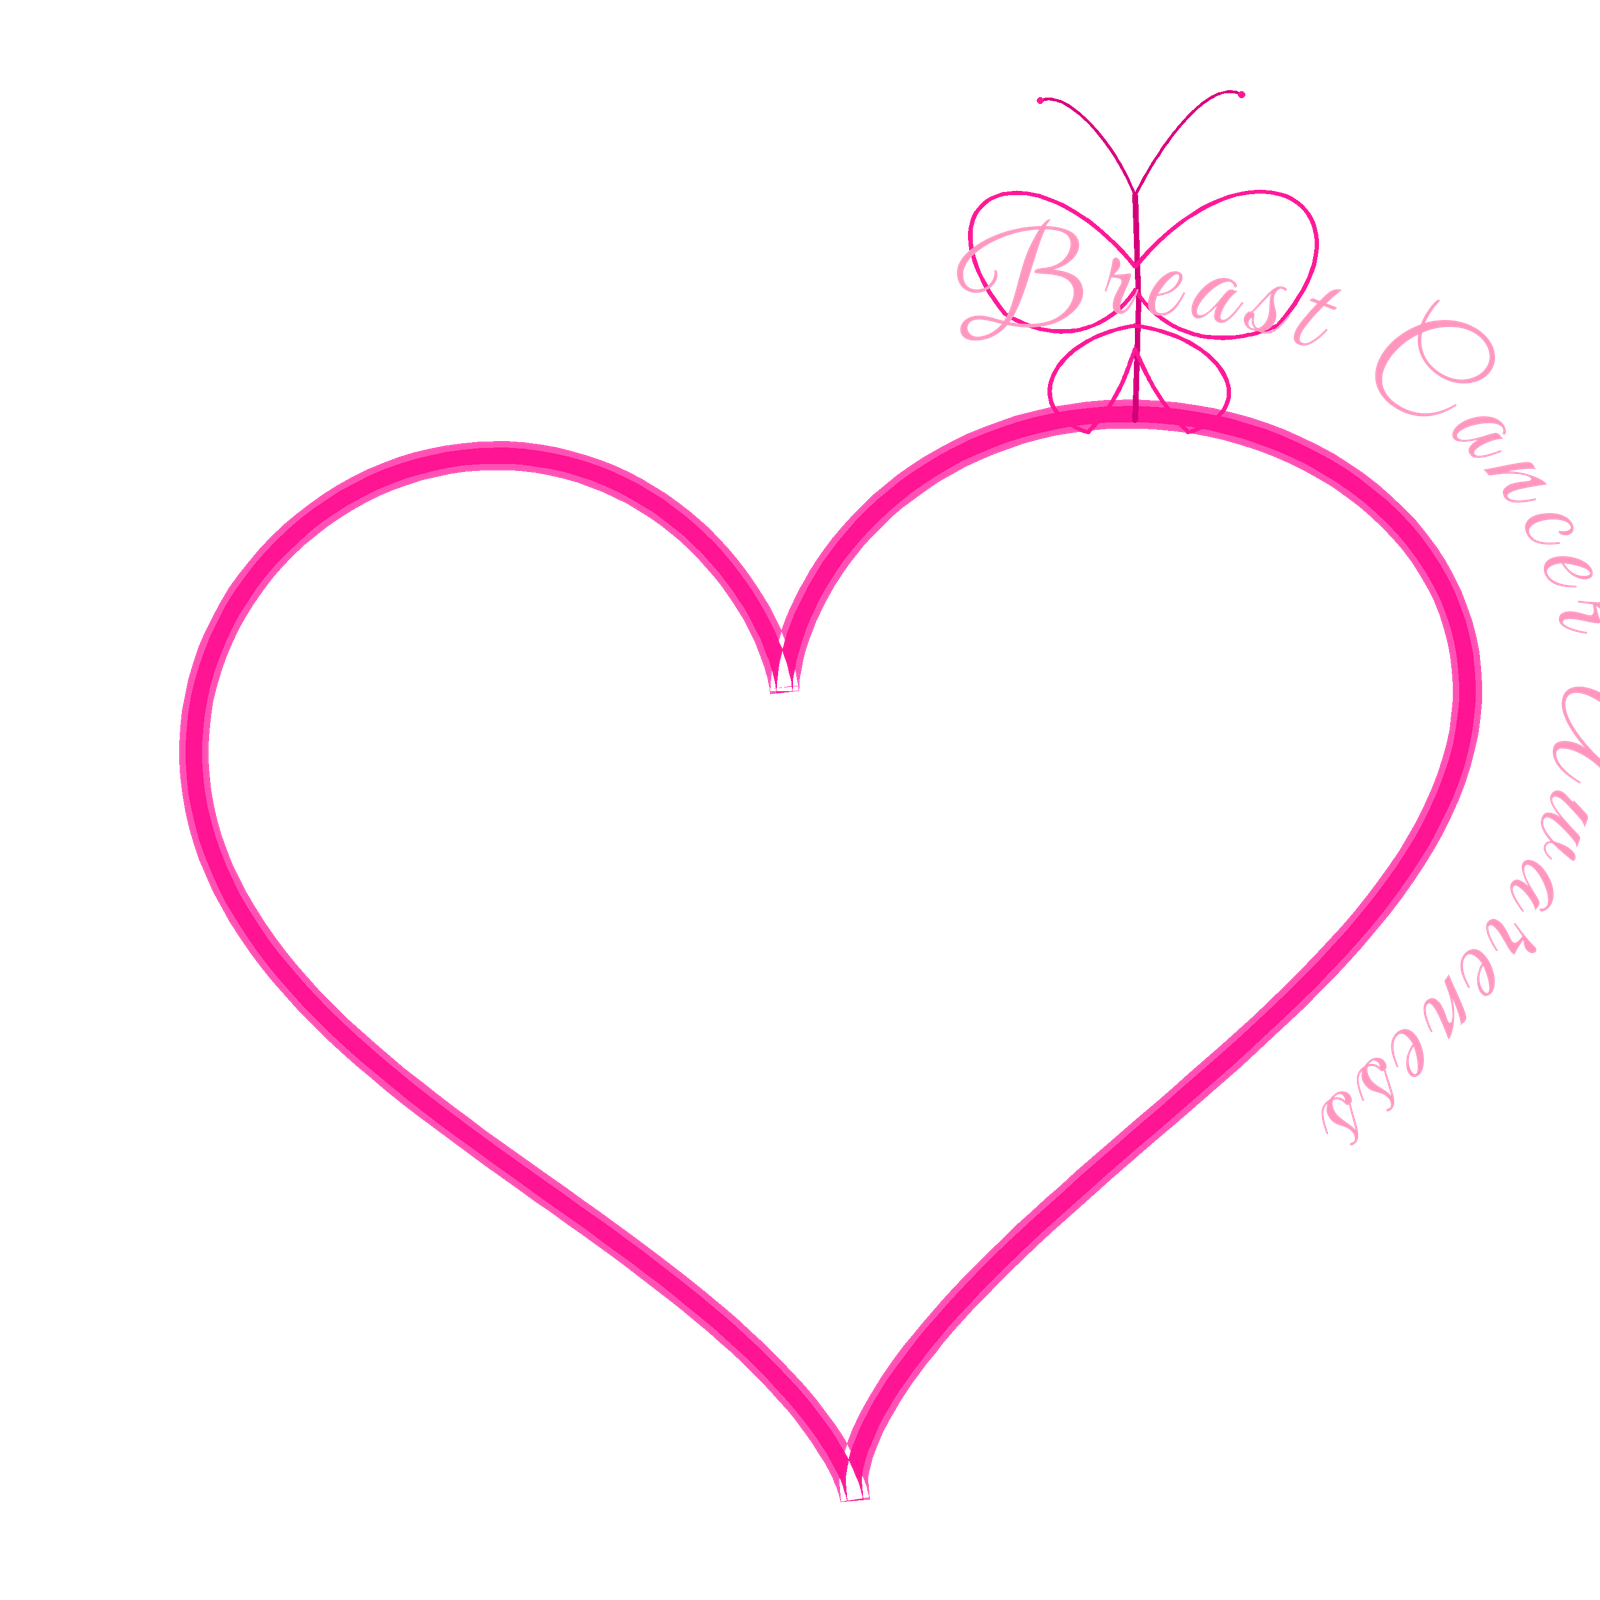
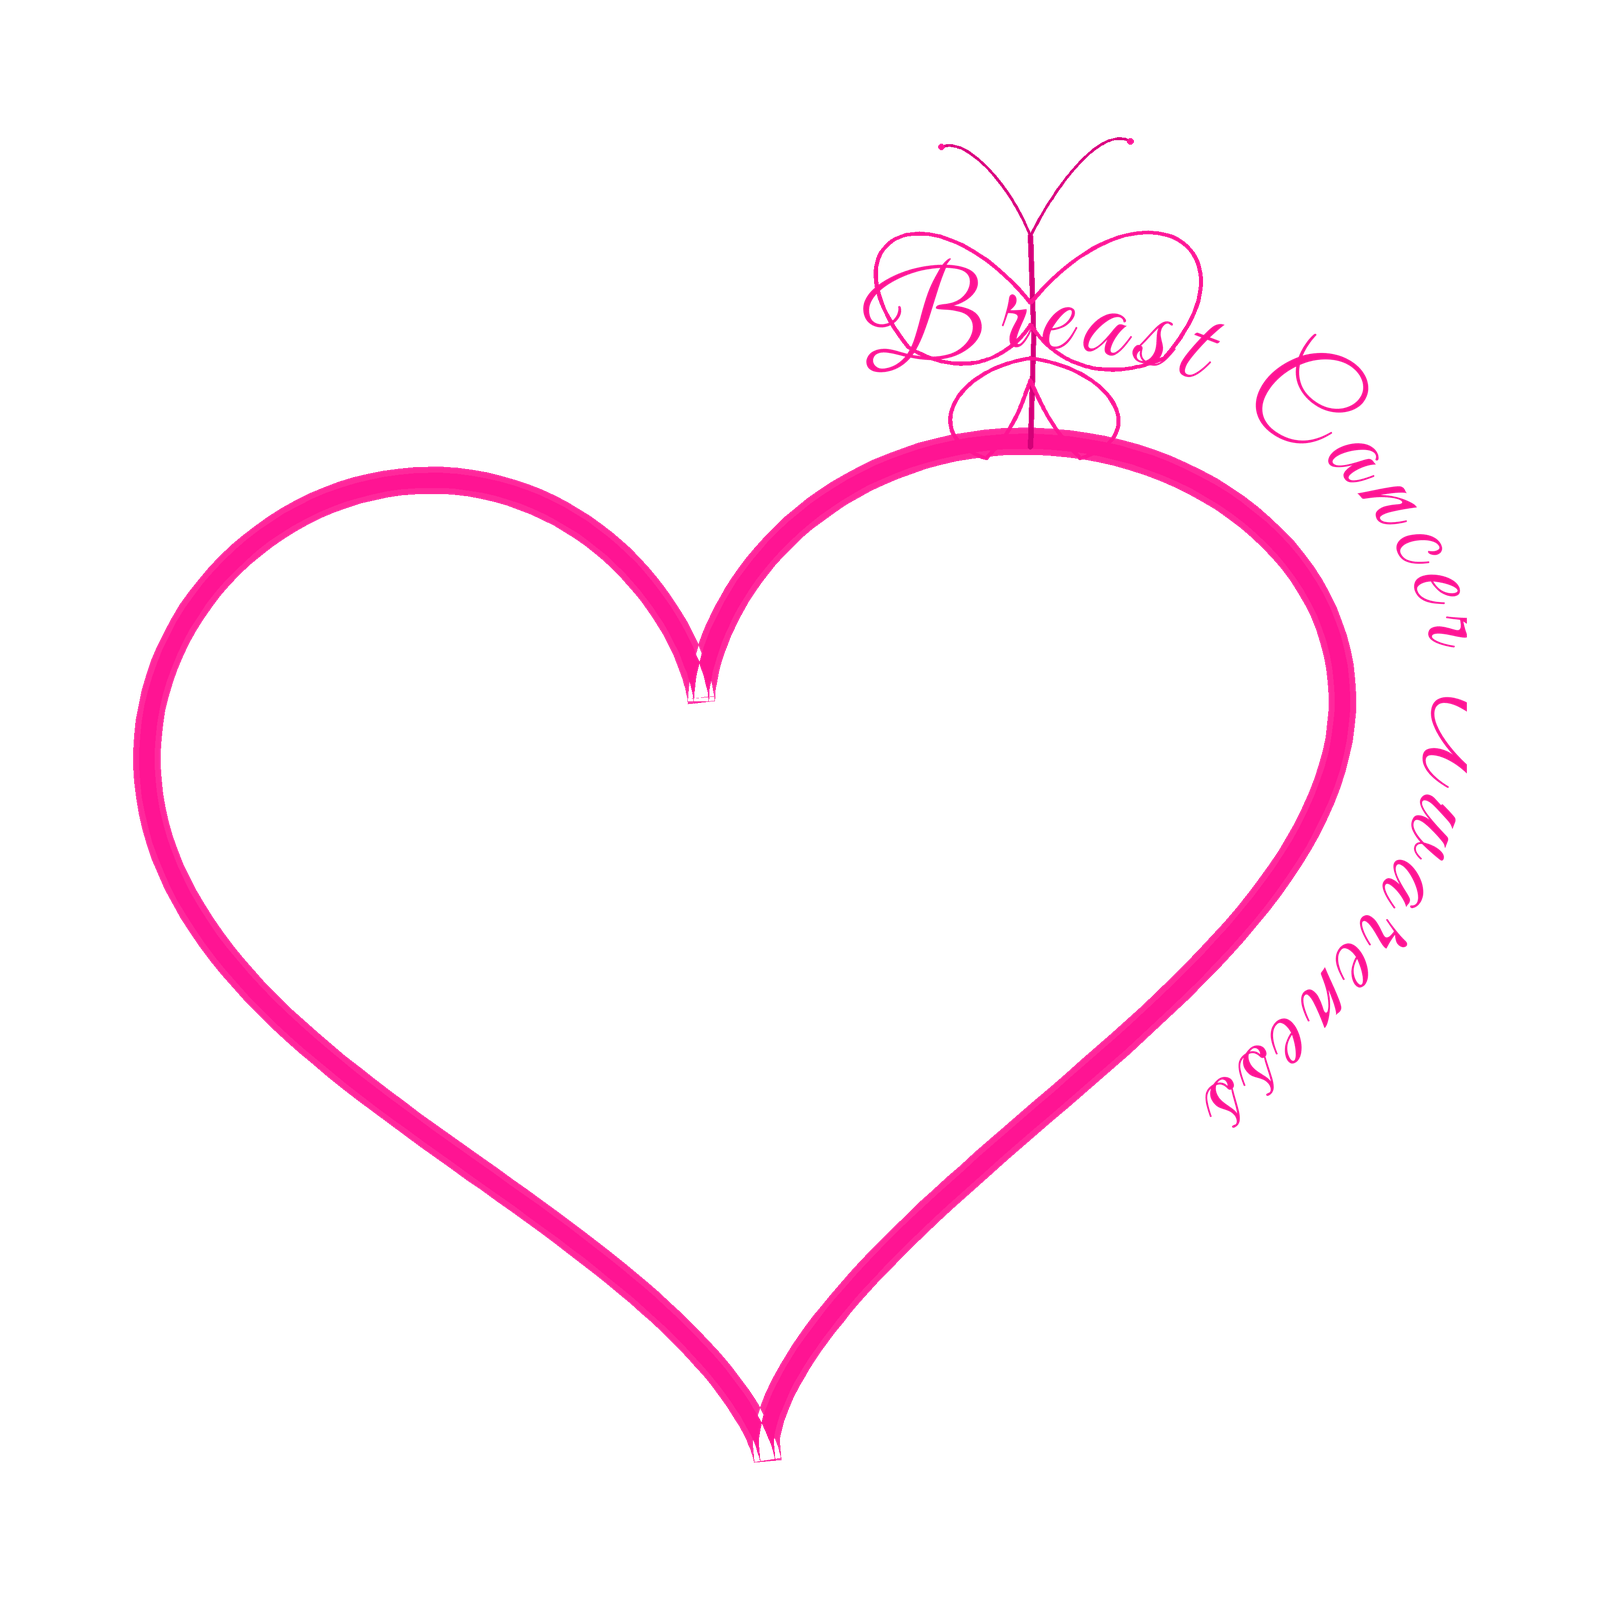
Add files via upload

diff --git a/index.html b/index.html
@@ -11,10 +11,12 @@
 <body>
   <header class="brand">
     <img class="heart" src="img/heart.png" alt="Breast Cancer Awareness">
-    <img class="k" src="img/k-emblem.png" alt="">
-    <p class="kicker-brand">KRITICK</p>
-    <h1>THE ZONE</h1>
-    <p class="turnaround">Back in ~24 hrs · Rush same day</p>
+    <div class="brand-fore">
+      <img class="k" src="img/k-emblem.png" alt="">
+      <p class="kicker-brand">KRITICK</p>
+      <h1>THE ZONE</h1>
+      <p class="turnaround">Back in ~24 hrs · Rush same day</p>
+    </div>
   </header>
   <ol class="steps" aria-label="How it works">
     <li><span class="n">1</span><strong>Pick</strong><span>a style</span></li>
@@ -79,21 +81,24 @@
   </section>
 
   <a class="btn email" id="email-video" href="mailto:stevenamador229+zone@gmail.com?subject=ZONE:%20My%20video&amp;body=Attach%20your%20video%20or%20paste%20a%20Google%20Drive%20link.%20If%20you%20paid%2C%20put%20your%20order%20code%20in%20the%20subject." data-addr="stevenamador229+zone@gmail.com">Email my video</a>
+  <div class="zone-email-copy"><p class="zone-email-addr"><button type="button" class="zone-email-text" data-copy="stevenamador229+zone@gmail.com" data-toast="Copied!">stevenamador229+zone@gmail.com</button></p><button type="button" class="copy zone-copy-email" data-copy="stevenamador229+zone@gmail.com">Copy email</button></div>
   <p class="after-line">Paid? Now email your video — your code goes in the subject</p>
   <p class="giving">10% of every paid edit is set aside for breast cancer research</p>
 
-  <a class="card free" href="mailto:stevenamador229+zone@gmail.com?subject=ZONE:%20Captioned%20Short%20%7C%20First%20edit%20FREE%20%7C%20ZN-FREE&amp;body=If%20this%20is%20not%20your%20first%20ZONE%20edit%2C%20pay%20first%20and%20put%20this%20order%20code%20in%20the%20PayPal%20or%20Cash%20App%20note%2C%20then%20attach%20your%20video%20or%20paste%20a%20public%20Google%20Drive%2C%20iCloud%2C%20Dropbox%2C%20or%20OneDrive%20link%20here.%0A%0ACaught%20a%20viral%20moment%20or%20a%20special%20occasion%3F%20Put%20RUSH%20in%20the%20subject%20so%20we%20can%20get%20it%20edited%20fast%20and%20you%20can%20share%20it%20while%20it&#x27;s%20hot.%20The%209%3A16%20is%20cut%20first.%20Rush%20depends%20on%20the%20PC%20being%20online%20—%20no%20time%20guarantee%20unless%20one%20is%20set.%0A%0AI%20filmed%20this%20or%20I%20have%20the%20rights%20to%20send%20it%3A%20YES%0A%0ATEXT%3A%20%0AWHERE%3A%20Top%0AWHEN%3A%20Whole%20video%0AOCCASION%3A%20%0ABUSINESS%3A%20%0AOFFER%3A%20%0ACTA%3A%20Shop%20now%0ACONTACT%3A%20%0ATAG%3A%20%0A%0AWant%20a%20custom%20header%2C%20zoom%2C%20caption%20look%2C%20clip%20length%2C%20or%209%3A16%20%2F%201%3A1%20%2F%2016%3A9%3F%20Write%20it%20in%20this%20email.">
-    <h2>Try it FREE once</h2>
-    <p>One person, one gift.</p>
-    <img class="qr" src="img/qr-free.png" width="200" height="200" alt="Try it FREE once">
-    <p class="fallback">stevenamador229+zone@gmail.com</p>
-    <p class="hint">Tap or scan — emails your video</p>
-  </a>
+  <section class="card free">
+    <a href="mailto:stevenamador229+zone@gmail.com?subject=ZONE:%20Captioned%20Short%20%7C%20First%20edit%20FREE%20%7C%20ZN-FREE&amp;body=If%20this%20is%20not%20your%20first%20ZONE%20edit%2C%20pay%20first%20and%20put%20this%20order%20code%20in%20the%20PayPal%20or%20Cash%20App%20note%2C%20then%20attach%20your%20video%20or%20paste%20a%20public%20Google%20Drive%2C%20iCloud%2C%20Dropbox%2C%20or%20OneDrive%20link%20here.%0A%0ACaught%20a%20viral%20moment%20or%20a%20special%20occasion%3F%20Put%20RUSH%20in%20the%20subject%20so%20we%20can%20get%20it%20edited%20fast%20and%20you%20can%20share%20it%20while%20it&#x27;s%20hot.%20The%209%3A16%20is%20cut%20first.%20Rush%20depends%20on%20the%20PC%20being%20online%20—%20no%20time%20guarantee%20unless%20one%20is%20set.%0A%0AI%20filmed%20this%20or%20I%20have%20the%20rights%20to%20send%20it%3A%20YES%0A%0ATEXT%3A%20%0AWHERE%3A%20Top%0AWHEN%3A%20Whole%20video%0AOCCASION%3A%20%0ABUSINESS%3A%20%0AOFFER%3A%20%0ACTA%3A%20Shop%20now%0ACONTACT%3A%20%0ATAG%3A%20%0A%0AWant%20a%20custom%20header%2C%20zoom%2C%20caption%20look%2C%20clip%20length%2C%20or%209%3A16%20%2F%201%3A1%20%2F%2016%3A9%3F%20Write%20it%20in%20this%20email.">
+      <h2>Try it FREE once</h2>
+      <p>One person, one gift.</p>
+      <img class="qr" src="img/qr-free.png" width="200" height="200" alt="Try it FREE once">
+      <p class="hint">Tap or scan — emails your video</p>
+    </a>
+    <div class="zone-email-copy"><p class="zone-email-addr"><button type="button" class="zone-email-text" data-copy="stevenamador229+zone@gmail.com" data-toast="Copied!">stevenamador229+zone@gmail.com</button></p><button type="button" class="copy zone-copy-email" data-copy="stevenamador229+zone@gmail.com">Copy email</button></div>
+  </section>
 
   <section class="card after">
     <p class="hint">After you pay, or after your gift.</p>
     <img class="qr" src="img/qr-send.png" width="200" height="200" alt="Send my video">
-    <p class="fallback">stevenamador229+zone@gmail.com</p>
+    <div class="zone-email-copy"><p class="zone-email-addr"><button type="button" class="zone-email-text" data-copy="stevenamador229+zone@gmail.com" data-toast="Copied!">stevenamador229+zone@gmail.com</button></p><button type="button" class="copy zone-copy-email" data-copy="stevenamador229+zone@gmail.com">Copy email</button></div>
   </section>
 
   <section class="card rush">
@@ -102,6 +107,7 @@
     <p>$2 · Put RUSH in the subject · We start yours first.</p>
     <p class="note">No time guarantee — we start when this PC is online.</p>
     <a class="btn rush-btn" href="mailto:stevenamador229+zone@gmail.com?subject=ZONE:%20RUSH">Email a rush order</a>
+    <div class="zone-email-copy"><p class="zone-email-addr"><button type="button" class="zone-email-text" data-copy="stevenamador229+zone@gmail.com" data-toast="Copied!">stevenamador229+zone@gmail.com</button></p><button type="button" class="copy zone-copy-email" data-copy="stevenamador229+zone@gmail.com">Copy email</button></div>
   </section>
 
   <section class="card sample">
@@ -136,7 +142,7 @@
   <section class="card styles">
     <h2>Pick a style</h2>
     <p class="hint">Optional. Pick one — or skip and send.</p>
-    <div class="style-grid"><div class="style-cell"><span>Captioned Short</span></div><div class="style-cell"><span>Social Media / Shorts</span></div><div class="style-cell"><span>Hype</span></div><div class="style-cell"><span>Clean Cut</span></div><div class="style-cell"><span>Cinematic</span></div><div class="style-cell"><span>Story / Vlog</span></div><div class="style-cell"><span>Business / Promo</span></div><div class="style-cell"><span>Podcast Clip</span></div><div class="style-cell"><span>Mini Clips</span></div></div>
+    <div class="style-grid"><div class="style-cell"><img class="style-thumb" src="img/styles/viral.png" width="720" height="480" alt="Captioned Short"><span>Captioned Short</span></div><div class="style-cell"><img class="style-thumb" src="img/styles/shorts.png" width="720" height="480" alt="Social Media / Shorts"><span>Social Media / Shorts</span></div><div class="style-cell"><img class="style-thumb" src="img/styles/gaming.png" width="720" height="480" alt="Hype"><span>Hype</span></div><div class="style-cell"><img class="style-thumb" src="img/styles/clean.png" width="720" height="480" alt="Clean Cut"><span>Clean Cut</span></div><div class="style-cell"><img class="style-thumb" src="img/styles/cinematic.png" width="720" height="480" alt="Cinematic"><span>Cinematic</span></div><div class="style-cell"><img class="style-thumb" src="img/styles/story.png" width="720" height="480" alt="Story / Vlog"><span>Story / Vlog</span></div><div class="style-cell"><img class="style-thumb" src="img/styles/promo.png" width="720" height="480" alt="Business / Promo"><span>Business / Promo</span></div><div class="style-cell"><img class="style-thumb" src="img/styles/podcast.png" width="720" height="480" alt="Podcast Clip"><span>Podcast Clip</span></div><div class="style-cell"><img class="style-thumb" src="img/styles/mini.png" width="720" height="480" alt="Mini Clips"><span>Mini Clips</span></div></div>
   </section>
 
   <section class="card details">
@@ -184,7 +190,7 @@
     <h2>Reveal your gift</h2>
     <p>Everyone gets the same gift. Not a game of chance. Scan to send a video.</p>
     <a href="mailto:stevenamador229+zone@gmail.com?subject=ZONE:%20Reveal%20your%20gift&amp;body=Bonus%20edit%20unlocked%21%20%F0%9F%8E%81%0A%0AEveryone%20gets%20the%20same%20gift%3A%20one%20extra%20free%20edit%2C%20once%2C%20for%20your%20email.%20This%20is%20not%20a%20game%20of%20chance.%20Sharing%20this%20message%20or%20QR%20does%20not%20give%20extra%20gifts.%0A%0AAttach%20your%20video%20and%20send%20it%20to%20use%20the%20gift%20on%20a%20real%20order.%0A%0ATEXT%3A%20%0AWHERE%3A%20Top%0AWHEN%3A%20Whole%20video%0A"><img class="qr" src="img/qr-reveal.png" width="180" height="180" alt="Reveal your gift"></a>
-    <p class="fallback">stevenamador229+zone@gmail.com</p>
+    <div class="zone-email-copy"><p class="zone-email-addr"><button type="button" class="zone-email-text" data-copy="stevenamador229+zone@gmail.com" data-toast="Copied!">stevenamador229+zone@gmail.com</button></p><button type="button" class="copy zone-copy-email" data-copy="stevenamador229+zone@gmail.com">Copy email</button></div>
   </section>
 
   <footer>

diff --git a/css/menu.css b/css/menu.css
@@ -3,8 +3,8 @@
 *{box-sizing:border-box}
 html,body{margin:0;padding:0;background:var(--bg);color:var(--paper);font-family:ui-sans-serif,system-ui,-apple-system,Segoe UI,sans-serif}
 body{max-width:440px;margin:0 auto;padding:0 14px 48px;font-weight:800}
-.brand{position:relative;text-align:center;padding:1.1rem .4rem .6rem;overflow:hidden;isolation:isolate}
-.brand .heart{position:absolute;left:50%;top:50%;transform:translate(-50%,-50%);width:110%;opacity:.42;pointer-events:none;z-index:0}
+.brand{position:relative;text-align:center;padding:0 0 .8rem;overflow:hidden;isolation:isolate}
+.brand .heart{position:relative;display:block;width:100%;max-width:420px;height:auto;margin:0 auto;opacity:.88;pointer-events:none;z-index:0}
 .brand .k{position:relative;z-index:1;width:44px;height:44px;display:block;margin:0 auto .2rem}
 .brand .kicker-brand,.brand h1,.brand .turnaround{position:relative;z-index:1;text-shadow:0 2px 8px #0C0D10,0 0 16px #0C0D10,0 0 4px #0C0D10;margin:0;width:100%}
 .kicker-brand{letter-spacing:.14em;font-size:1rem}
@@ -71,4 +71,12 @@ h2,h3{margin:.1rem 0 .4rem;font-size:1.4rem}
 footer{text-align:center;color:var(--muted);margin:1.5rem 0}
 #toast{position:fixed;left:50%;bottom:1.4rem;transform:translateX(-50%);z-index:80;min-height:48px;padding:.75rem 1.3rem;border-radius:14px;background:var(--go);color:#0C0D10}
 #toast[hidden]{display:none}
+
+.brand-fore{position:absolute;left:0;right:0;top:50%;transform:translateY(-42%);z-index:1;text-align:center;width:100%;pointer-events:none}
+.brand-fore .k{position:relative;z-index:1;width:56px;height:56px;display:block;margin:0 auto .35rem}
+.zone-email-copy{text-align:center;margin:.55rem 0 .25rem}
+.zone-email-addr{margin:.15rem 0 .35rem}
+.zone-email-text{display:inline;background:transparent;border:0;padding:.35rem .1rem;min-height:48px;font-weight:900;font-size:1.2rem;line-height:1.35;color:var(--paper);word-break:break-all;text-decoration:underline;cursor:pointer}
+.zone-copy-email{display:flex;align-items:center;justify-content:center;width:100%;min-height:48px;margin:.15rem 0 .3rem;background:#2a2b32;color:var(--paper);border:0;border-radius:14px;font-weight:900;font-size:1.05rem}
+.style-thumb{display:block;width:100%;height:auto;border-radius:12px;margin:0 0 .5rem;background:#0C0D10}
 @media(min-width:520px){body{max-width:560px}}

diff --git a/js/menu.js b/js/menu.js
@@ -16,14 +16,36 @@
     var body = 'Attach your video or paste a Google Drive link. If you paid, put your order code in the subject.';
     a.href = 'mailto:' + addr + '?subject=' + encodeURIComponent(subj) + '&body=' + encodeURIComponent(body);
   }
-  function copy(val){
-    if(navigator.clipboard && navigator.clipboard.writeText){
-      return navigator.clipboard.writeText(val);
+  function selectVisible(text){
+    var nodes = document.querySelectorAll('.zone-email-text, .email-text');
+    for (var i=0;i<nodes.length;i++){
+      if ((nodes[i].textContent || '').trim() === text){
+        var range = document.createRange();
+        range.selectNodeContents(nodes[i]);
+        var sel = window.getSelection();
+        if (sel){ sel.removeAllRanges(); sel.addRange(range); }
+        return true;
+      }
     }
-    var ta = document.createElement('textarea');
-    ta.value = val; document.body.appendChild(ta); ta.select();
-    try{ document.execCommand('copy'); } finally { document.body.removeChild(ta); }
-    return Promise.resolve();
+    return false;
+  }
+  function copy(val){
+    function fallback(){
+      var ta = document.createElement('textarea');
+      ta.value = val; ta.setAttribute('readonly','');
+      ta.style.cssText='position:fixed;top:0;left:0;width:1px;height:1px;opacity:0.01;font-size:16px';
+      document.body.appendChild(ta);
+      ta.focus(); ta.select();
+      var ok=false;
+      try{ ok=document.execCommand('copy'); }catch(e){ ok=false; }
+      document.body.removeChild(ta);
+      if(!ok) selectVisible(val);
+      return ok;
+    }
+    if(navigator.clipboard && navigator.clipboard.writeText){
+      return navigator.clipboard.writeText(val).then(function(){ return true; }).catch(function(){ return fallback(); });
+    }
+    return Promise.resolve(fallback());
   }
   document.querySelectorAll('[data-copy]').forEach(function(btn){
     btn.addEventListener('click', function(ev){
